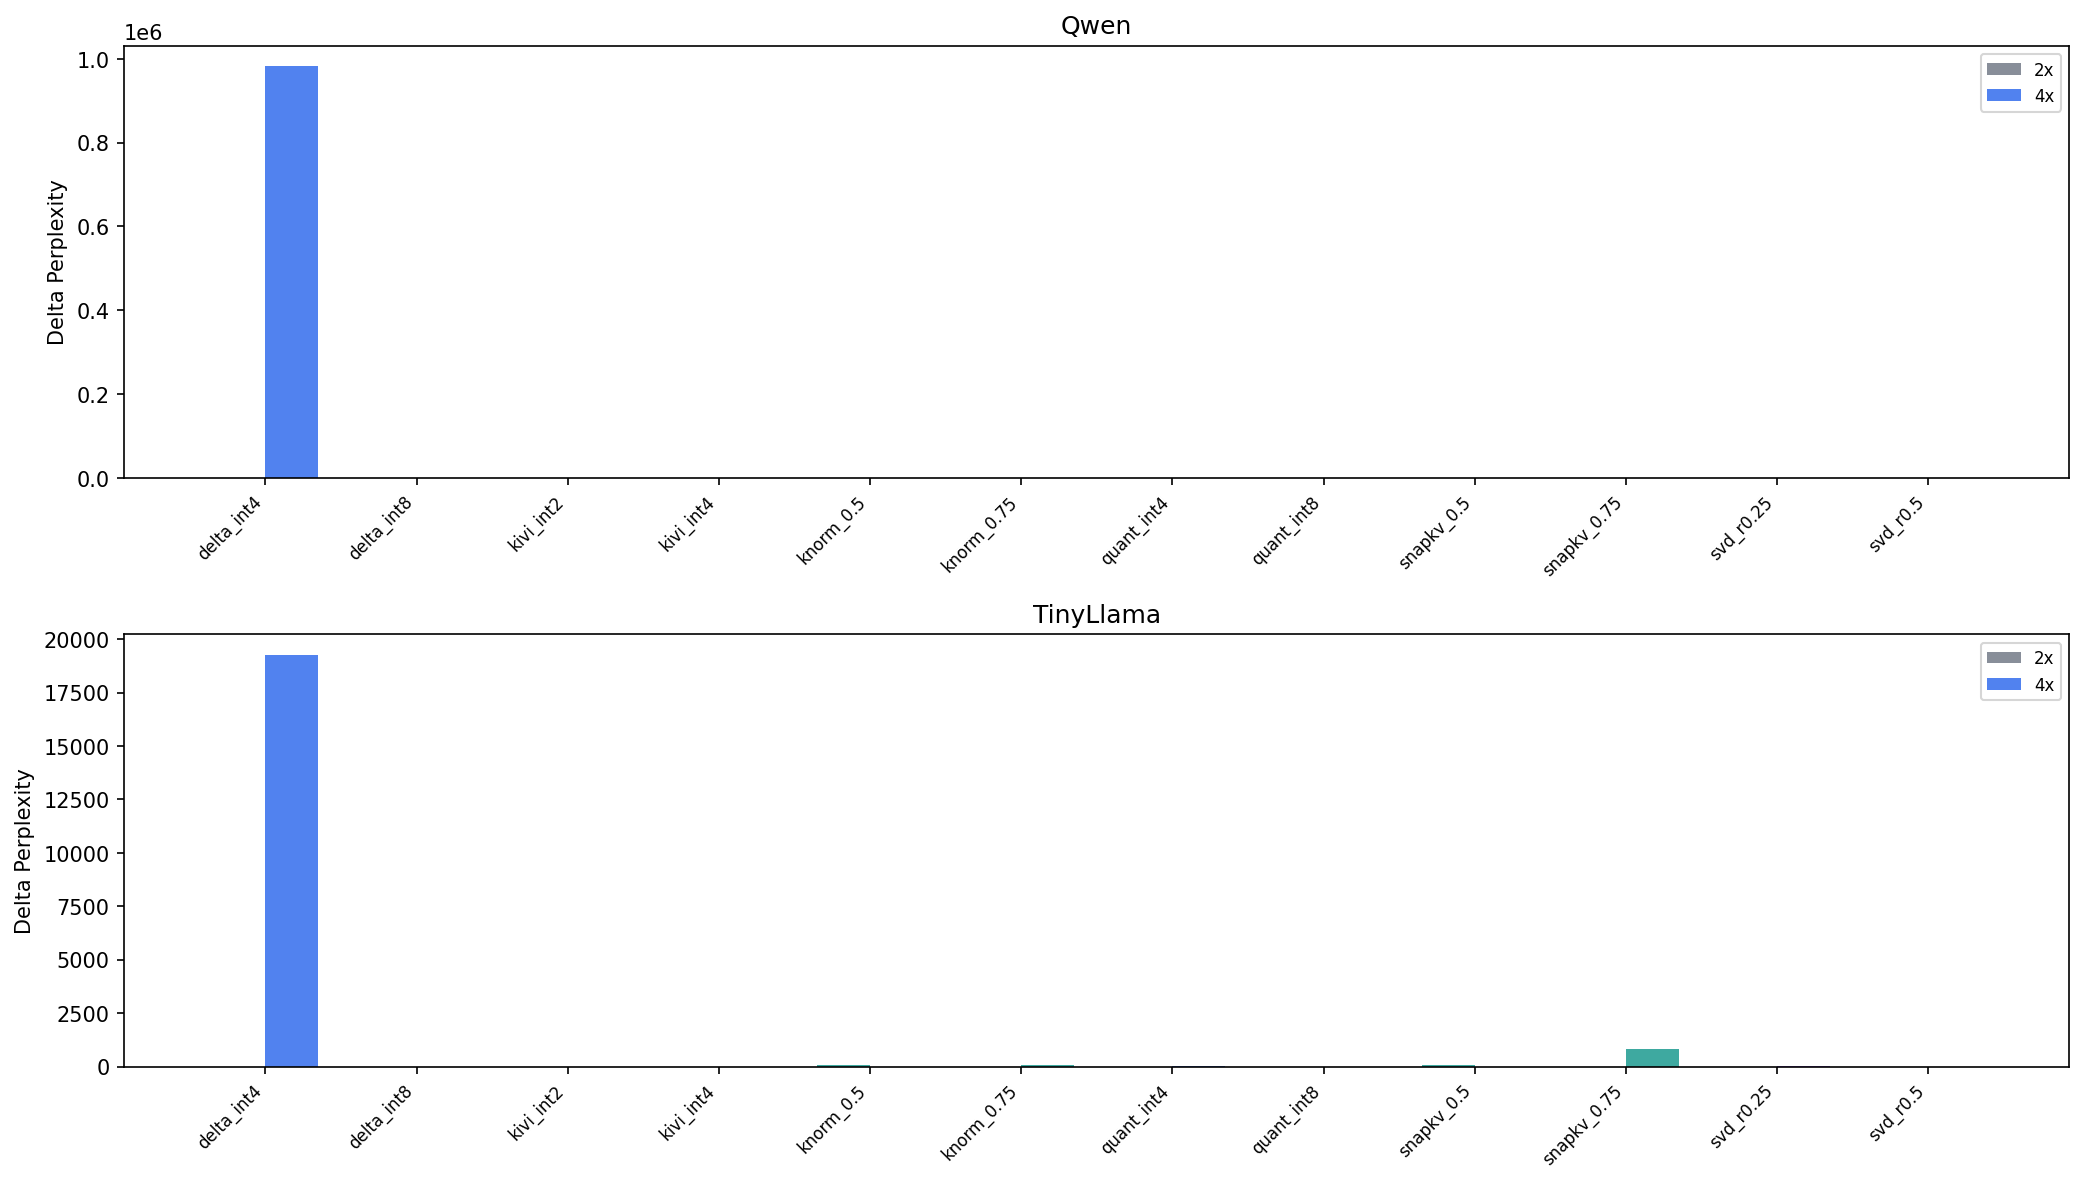
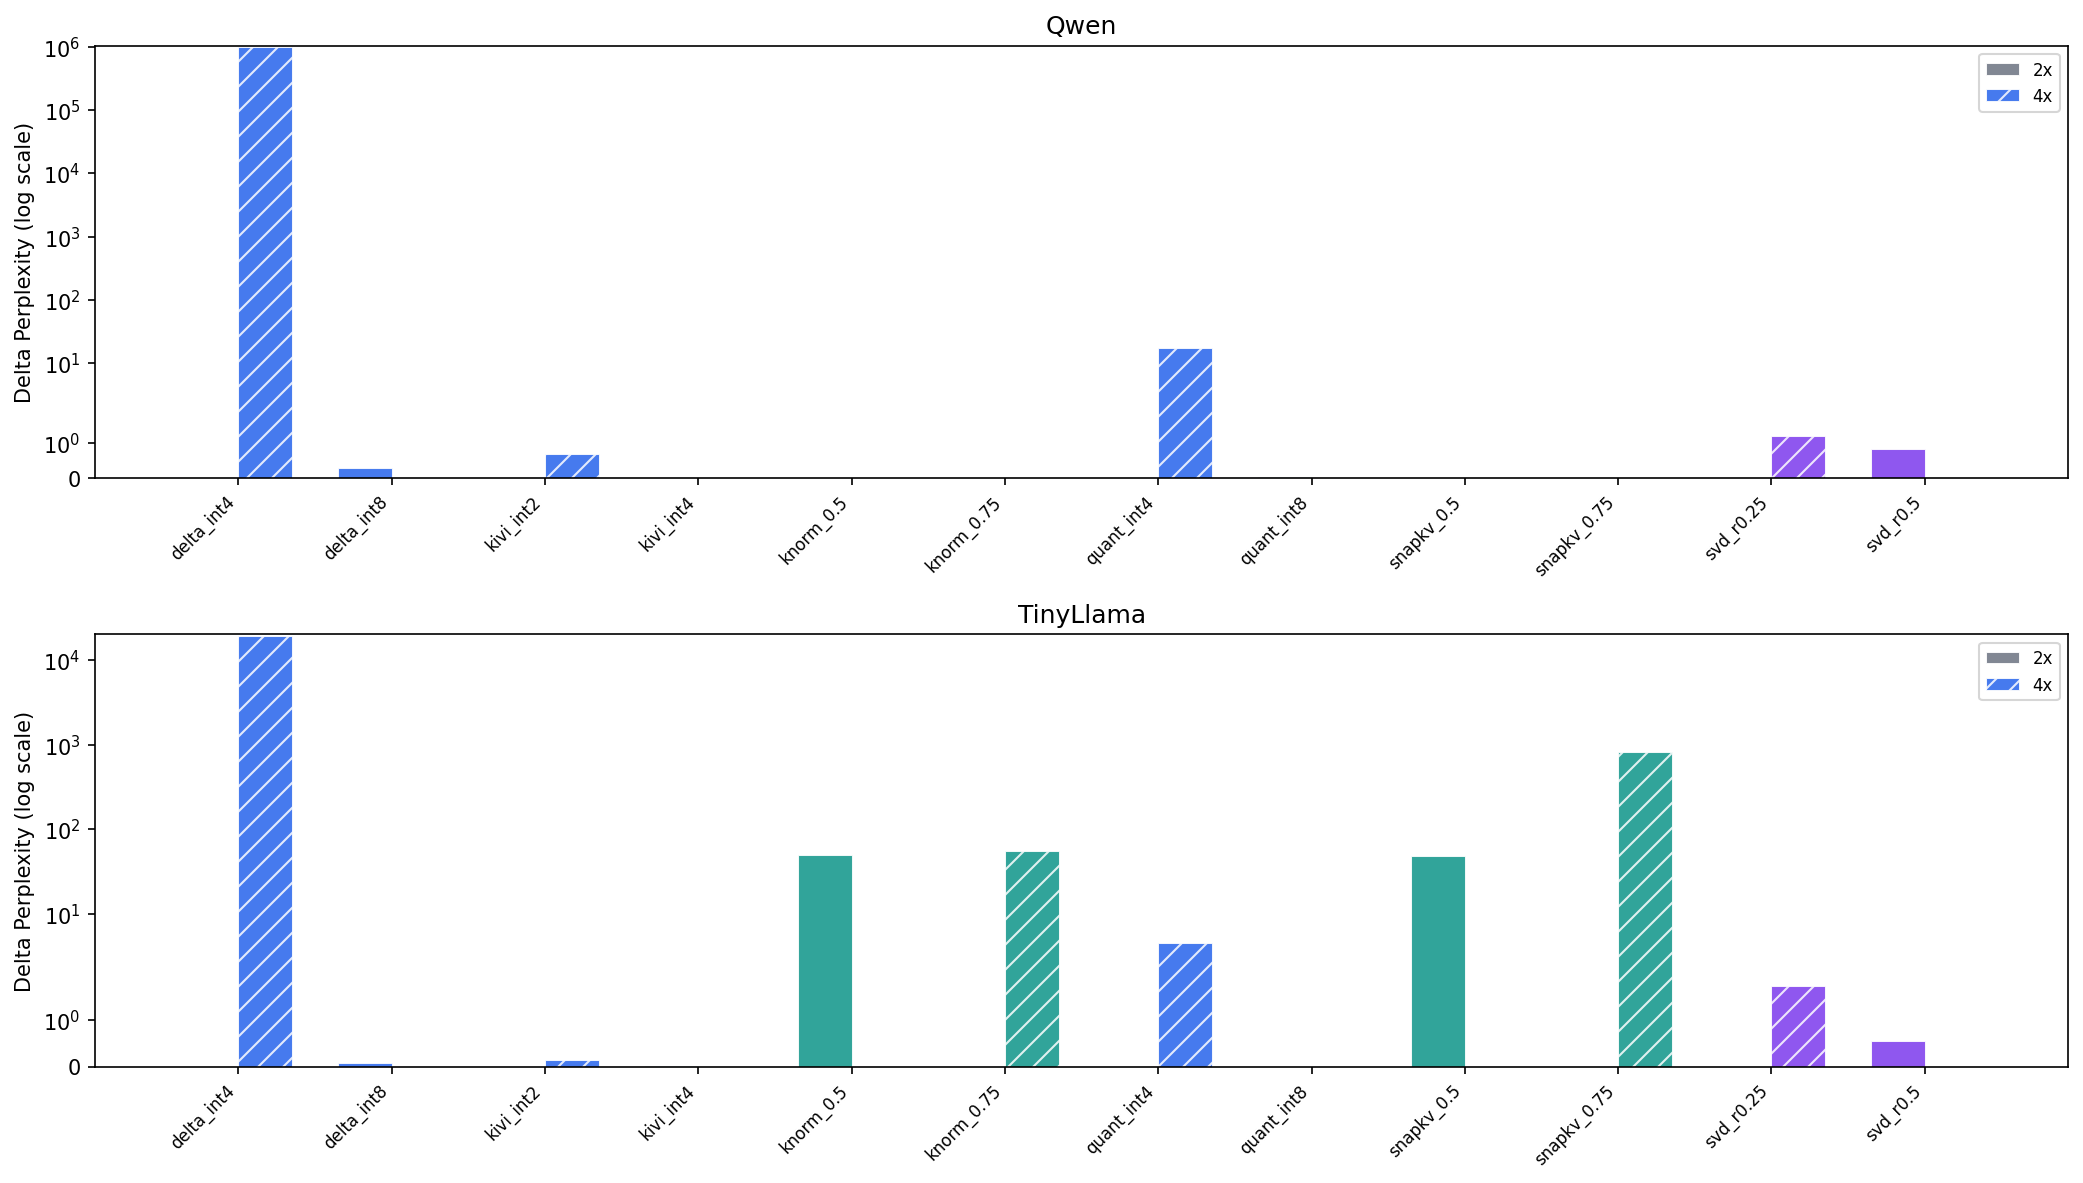
new

diff --git a/experimental/plots.py b/experimental/plots.py
@@ -400,18 +400,22 @@ def plot_crossover_comparison(df, save_path):
             for m in methods:
                 if m in sub2.index:
                     vals.append(sub2.loc[m, "delta_ppl"])
-                    cols.append(axis_colors.get(sub2.loc[m, "compression_axis"], GRAY))
+                    hatch = "" if target == "2x" else "//"
+                    cols.append((axis_colors.get(sub2.loc[m, "compression_axis"], GRAY), hatch))
                 else:
                     vals.append(0)
-                    cols.append(GRAY)
+                    hatch = "" if target == "2x" else "//"
+                    cols.append((GRAY, hatch))
             offset = w * (ti - 0.5)
             for mi2, m in enumerate(methods):
-                ax.bar(x[mi2] + offset, vals[mi2], w, color=cols[mi2],
-                       alpha=0.8, label=target if mi2 == 0 else "")
+                ax.bar(x[mi2] + offset, vals[mi2], w, color=cols[mi2][0],
+                       hatch=cols[mi2][1], edgecolor="white", linewidth=0.5,
+                       alpha=0.85, label=target if mi2 == 0 else "")
         ax.set_title(mn)
         ax.set_xticks(x)
         ax.set_xticklabels(methods, rotation=45, ha="right", fontsize=8)
-        ax.set_ylabel("Delta Perplexity")
+        ax.set_ylabel("Delta Perplexity (log scale)")
+        ax.set_yscale("symlog")
         ax.axhline(y=0, color=GRAY, linestyle="-", linewidth=0.5)
         ax.legend(fontsize=8)
     fig.tight_layout()